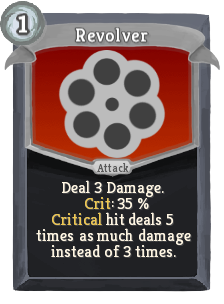
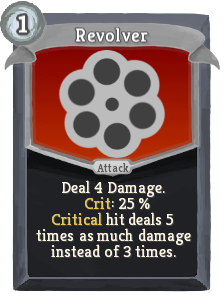
v0.2.4

Changed region(s): [[0.4062, 0.5921, 0.75, 0.7105]]

diff --git a/index.html b/index.html
@@ -703,7 +703,7 @@
         <td>Common</td>
         <td>Attack</td>
         <td>1</td>
-        <td>Deal 3 Damage. Crit: !C! % Critical hit deals 5(7) times as much damage instead of 3 times.</td>
+        <td>Deal 4 Damage. Crit: !C! % Critical hit deals 5(7) times as much damage instead of 3 times.</td>
       </tr>
       
       <tr>
@@ -913,7 +913,7 @@
         <td>Rare</td>
         <td>Attack</td>
         <td>4</td>
-        <td>Deal 4(6) Damage to ALL enemies. Play ALL Grenades from your draw (and discard) pile(s). WARNING : Do not mess with the Void!</td>
+        <td>Deal 4(6) Damage to ALL enemies. Play ALL Grenades from your draw (and discard) pile(s). WARNING: Do not mess with the Void!</td>
       </tr>
       
     </table>
